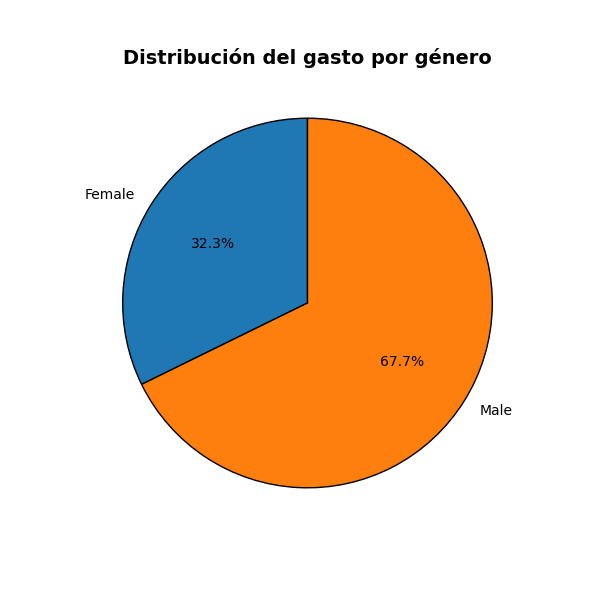
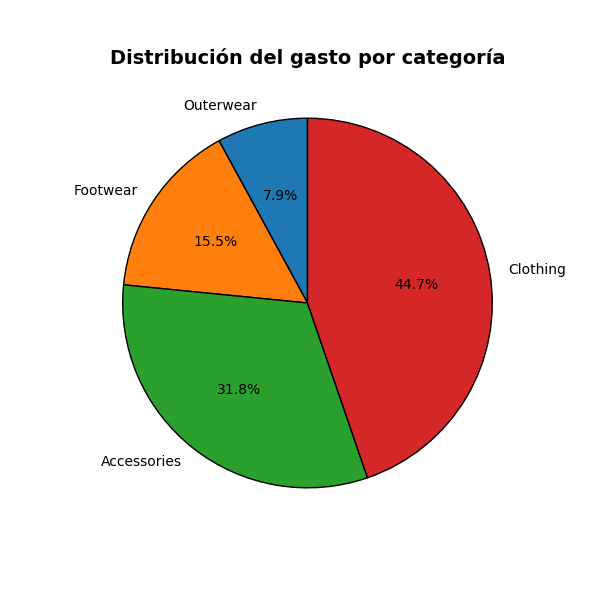
Modificacion genero por categoria

diff --git a/pie_chart.py b/pie_chart.py
@@ -3,7 +3,8 @@ import matplotlib.pyplot as plt
 
 
 df = pd.read_csv('shopping_behavior_updated.csv')
-size_group = df.groupby('Gender')['Purchase Amount (USD)'].sum()
+size_group = df.groupby('Category')['Purchase Amount (USD)'].sum()
+size_group = size_group.sort_values()
 
 plt.figure(figsize=(6, 6))
 plt.pie(
@@ -14,5 +15,5 @@ plt.pie(
     wedgeprops={'edgecolor': 'black'}
 )
 
-plt.title('Distribución del gasto por género', fontsize=14, weight='bold')
+plt.title('Distribución del gasto por categoría', fontsize=14, weight='bold')
 plt.show()

diff --git a/README.md b/README.md
@@ -1,1 +1,12 @@
-# visualizacion1
+# Visualización de datos - PEC 2
+## Visualización 1 - Pie Chart
+
+El conjunto de datos sobre el cual se trabaja contiene información sobre los comportamientos de compra. En estos datos podemos encontrar el detalle de los compradores como edad y genero, el tipo de compras realizadas o en la época que las realizaron, entre otros atributos.
+
+Para la realización del Pie Chart se ha optado por analizar el gasto en USD por tipo de producto. De esta forma podemos ver a grandes rasgos cual es el sector en el que la población invierte más.
+
+![Pie Chart con la distribución de las compras por tipo de producto](pie_chart.png)
+
+Como podemos ver el mayor gasto se realiza en ropa, con un 44.7%. Seguido de la ropa, son los accesorios en los que las personas gastan más su dinero, con un 31.8%. Luego ya viene el calzado y por último estaría la ropa de abrigo.
+
+Con esta información se pueden plantear estretegias de empresa para conseguir un mayor beneficio sabiendo que la gente gasta más en ropa que en el resto de categorías.
